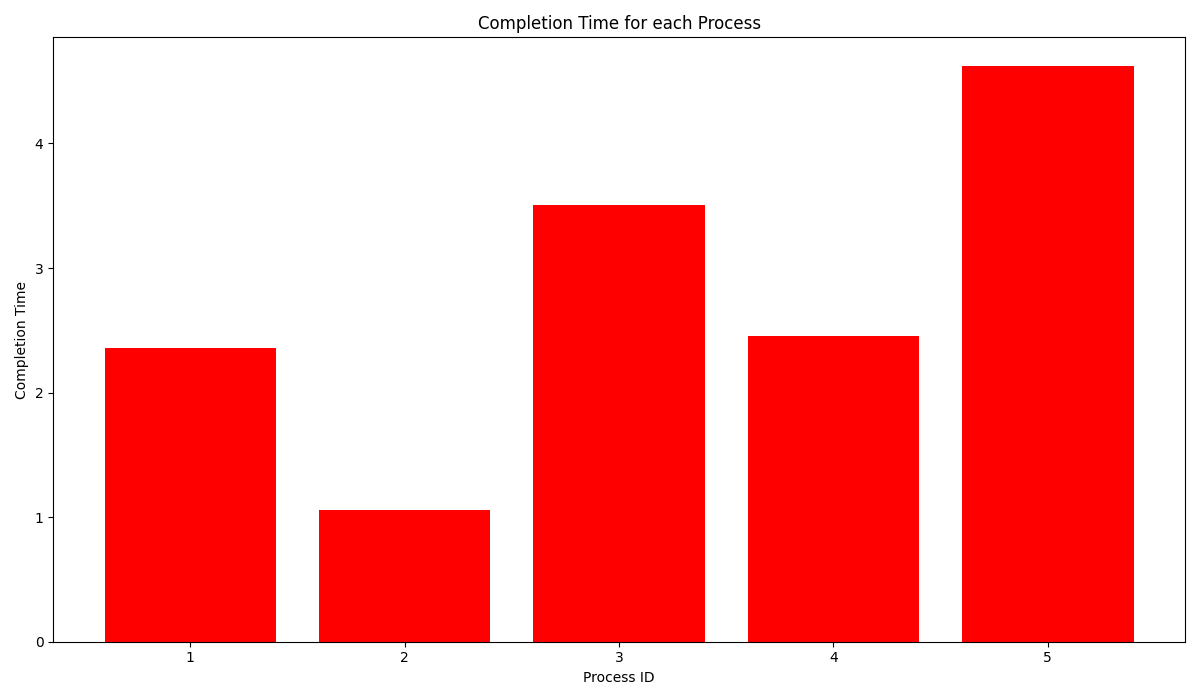
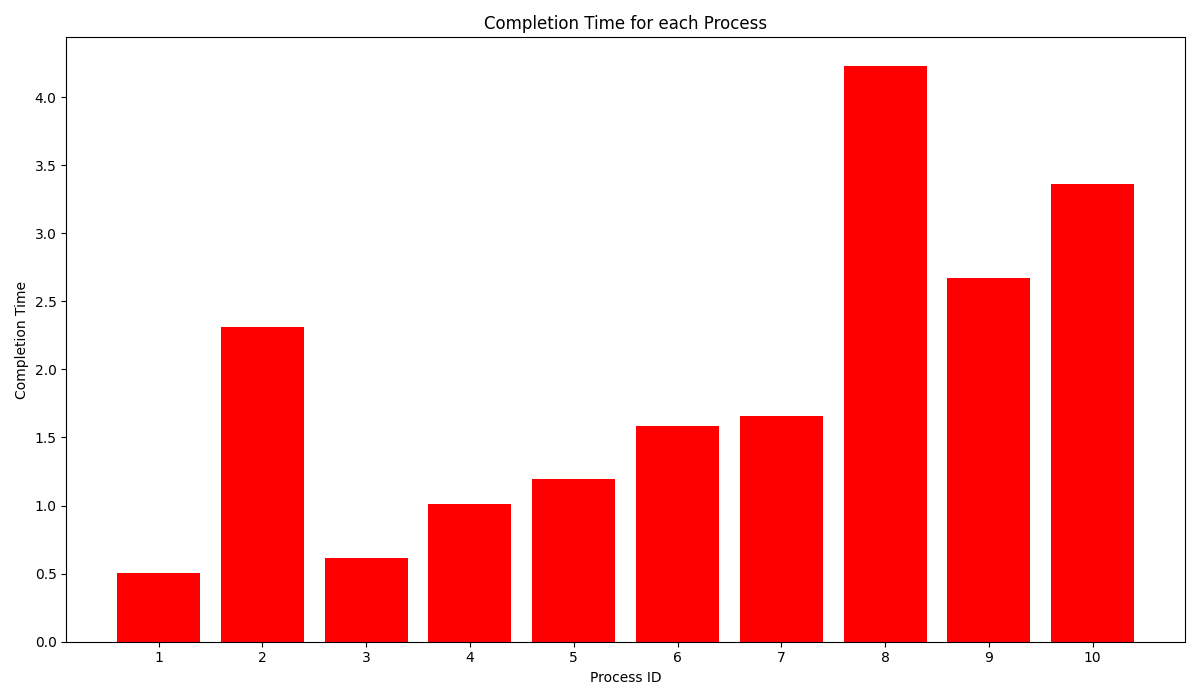
Added HRRN

diff --git a/HRRN.py b/HRRN.py
@@ -1,0 +1,40 @@
+import random
+def HRRN(self):
+    if not self.ready_queue:
+        if len(self.allP) < self.total_processes:
+            next_arrival = random.expovariate(self.avg_arrival_rate)
+            self.current_time += next_arrival
+        else:
+            self.current_time += 0.001
+        return
+
+    # Only consider processes that have already arrived
+    arrived_processes = [p for p in self.ready_queue if p.AT <= self.current_time]
+    
+    # If no processes have arrived yet, then jump to the arrival of the next process
+    if not arrived_processes:
+        self.current_time = self.ready_queue[0].AT
+        return
+
+    # Calculate Response Ratio for each process and select the one with the highest RR
+    for process in arrived_processes:
+        if process.TimeOf1stService is None:
+            process.WT = self.current_time - process.AT
+        else:
+            process.WT += self.current_time - process.LastPreempted
+        
+        process.RR = (process.WT + process.BT) / process.BT
+        print("RR for ", process.process_id, " is ", process.RR, " at time ", self.current_time)
+
+    # Sort by RR and select the process with the highest RR
+    P = max(arrived_processes, key=lambda x: x.RR)
+    #print("Selected to work on ", P.process_id)
+    self.ready_queue.remove(P)
+
+    if P.TimeOf1stService is None:
+        P.TimeOf1stService = self.current_time
+
+    # Since HRRN is non-preemptive, the entire burst time of the process is executed
+    self.current_time += P.BT
+    P.CT = self.current_time
+    self.processed_processes += 1

diff --git a/main.py b/main.py
@@ -3,6 +3,7 @@ import heapq  # We will use a heap as a priority queue
 import csv
 from FCFS import FCFS
 from SRTF import SRTF
+from HRRN import HRRN
 
 def write_processes_to_csv(processes, filename):
     with open(filename, 'w', newline='') as file:
@@ -75,14 +76,15 @@ class SimulationClock:
                 self.ready_queue.append(the_new_p)
                 self.allP.append(the_new_p)  # Append the_new_p, not the_first_p
             #FCFS(self)
-            SRTF(self)
+            #SRTF(self)
+            HRRN(self)
 
         write_processes_to_csv(self.allP, 'stats.csv')
 
 
-avg_arrival_rate = 2 #this is lamda λ
+avg_arrival_rate = 20 #this is lamda λ
 sim_clock = SimulationClock(avg_arrival_rate, avg_service_time=0.7)
-sim_clock.run(total_processes=5)
+sim_clock.run(total_processes=10)
 
 
 

diff --git a/SRTF.py b/SRTF.py
@@ -1,3 +1,4 @@
+import random
 def SRTF(self):
     if not self.ready_queue:
         if len(self.allP) < self.total_processes:
